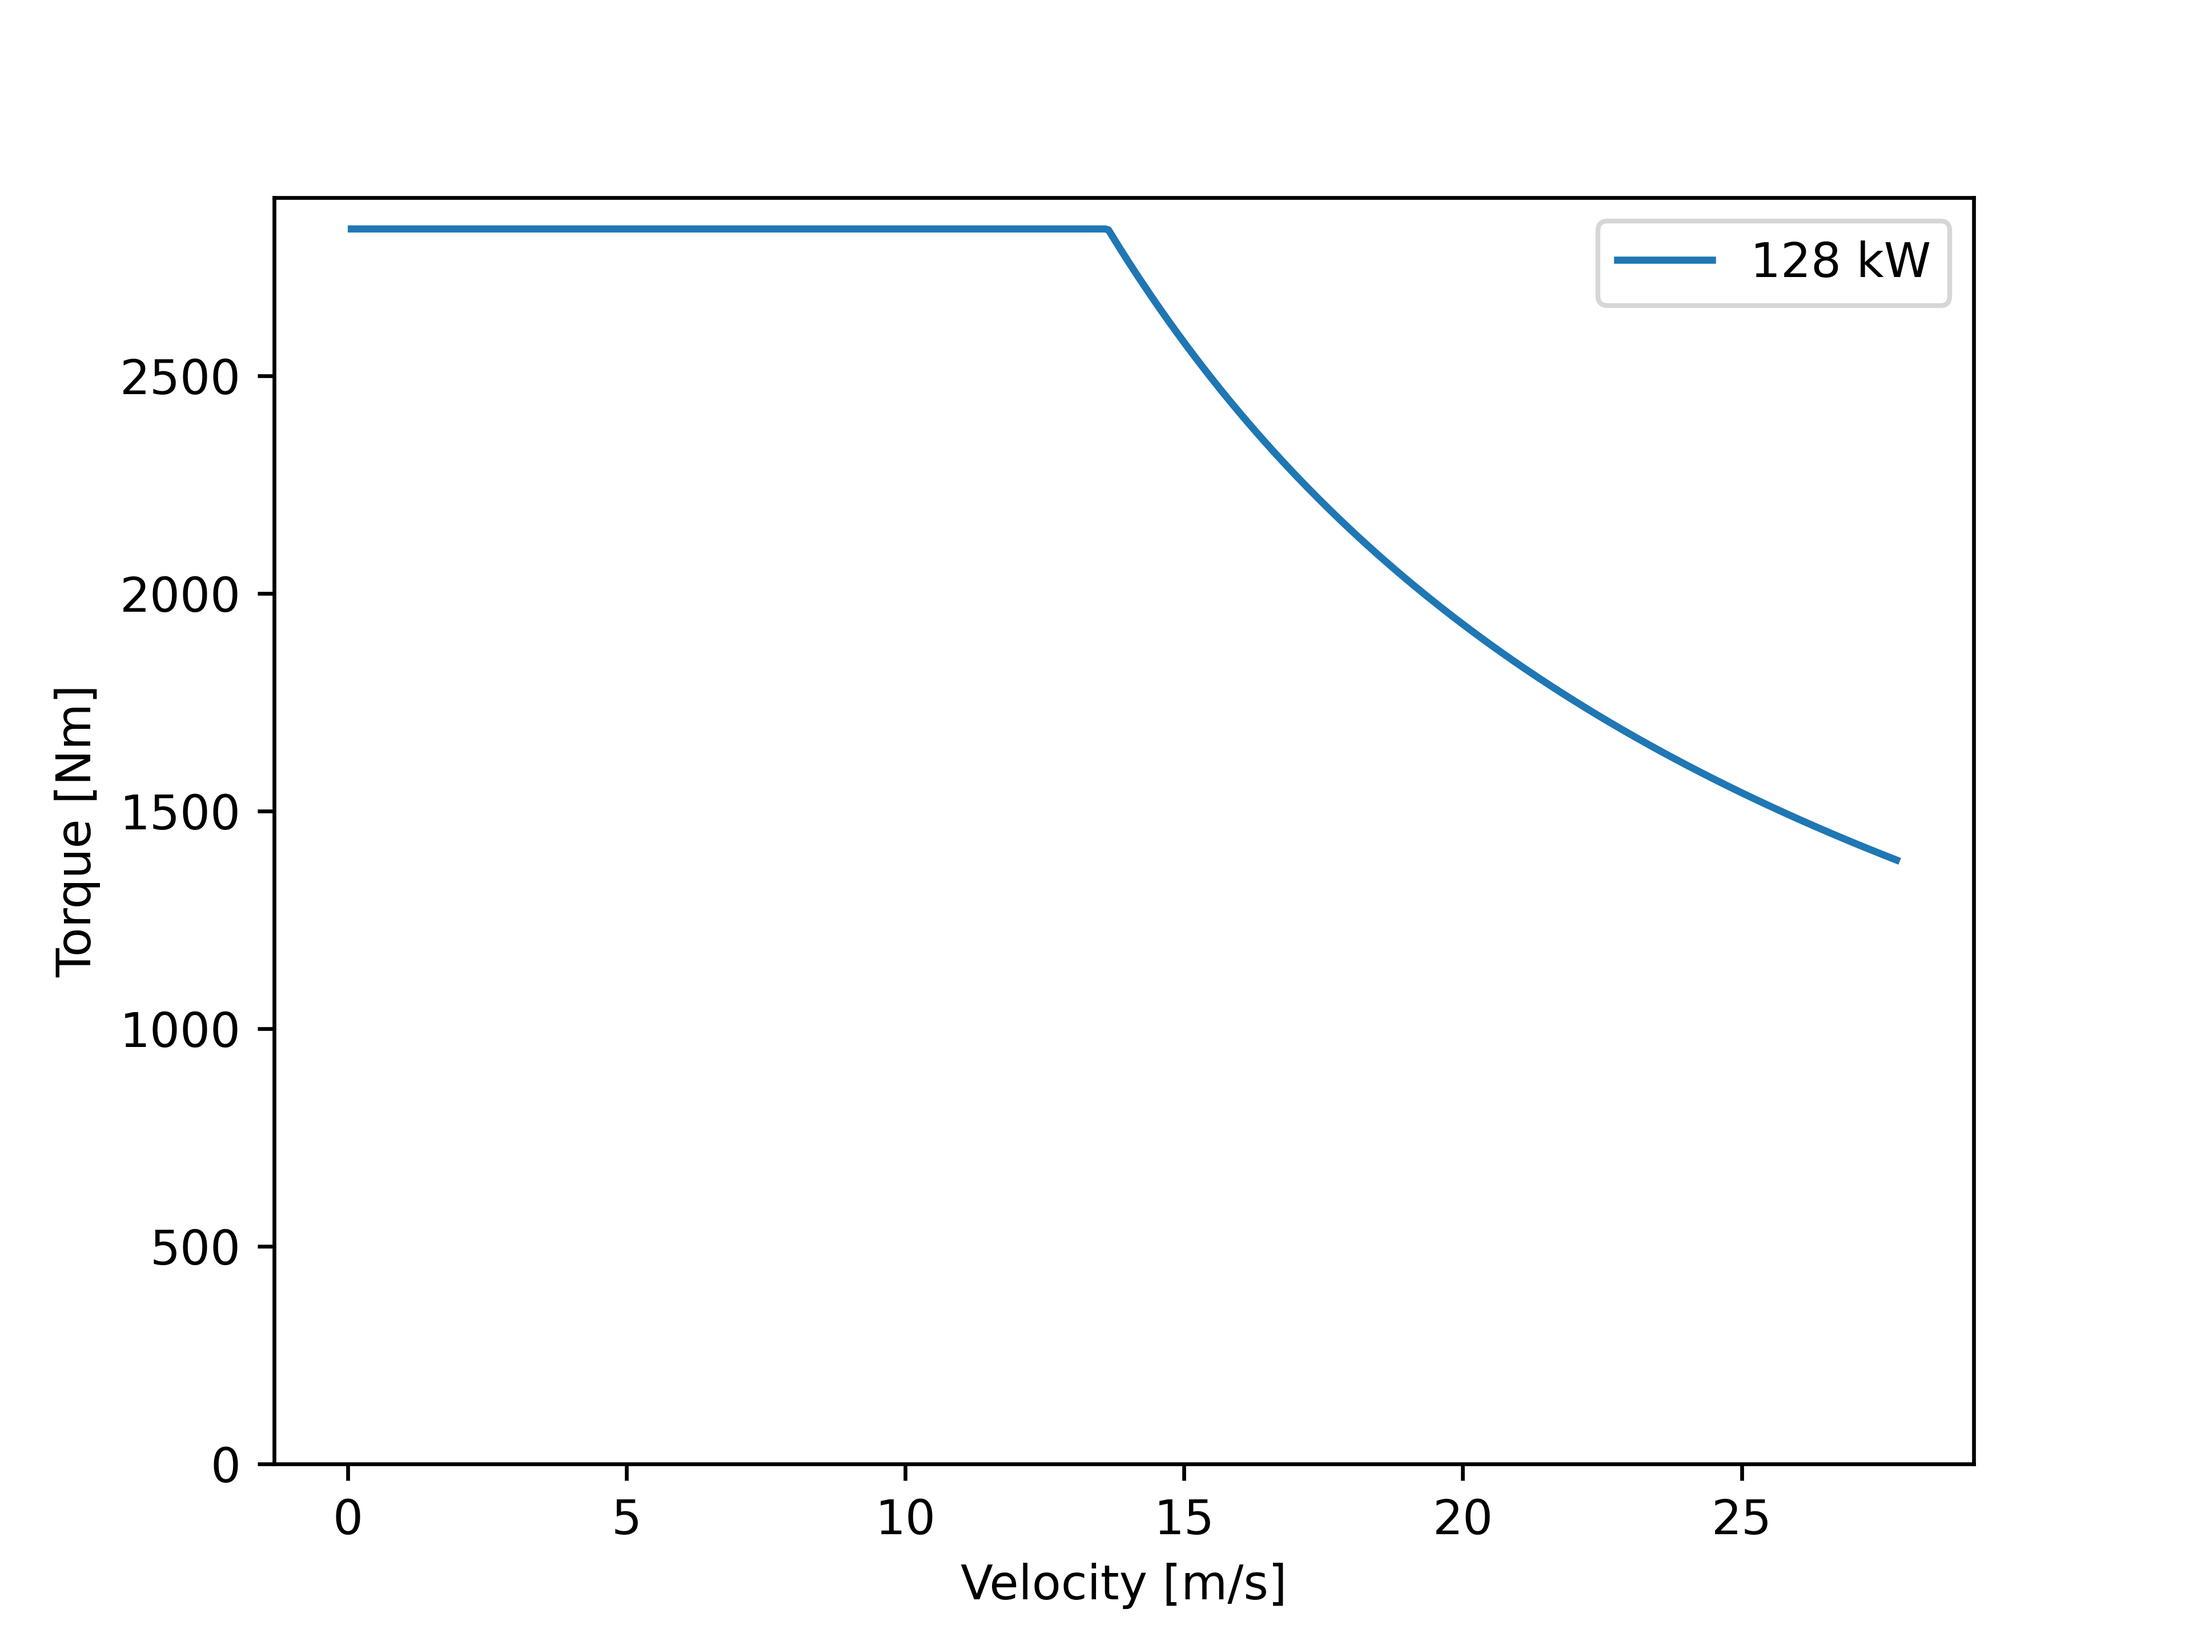
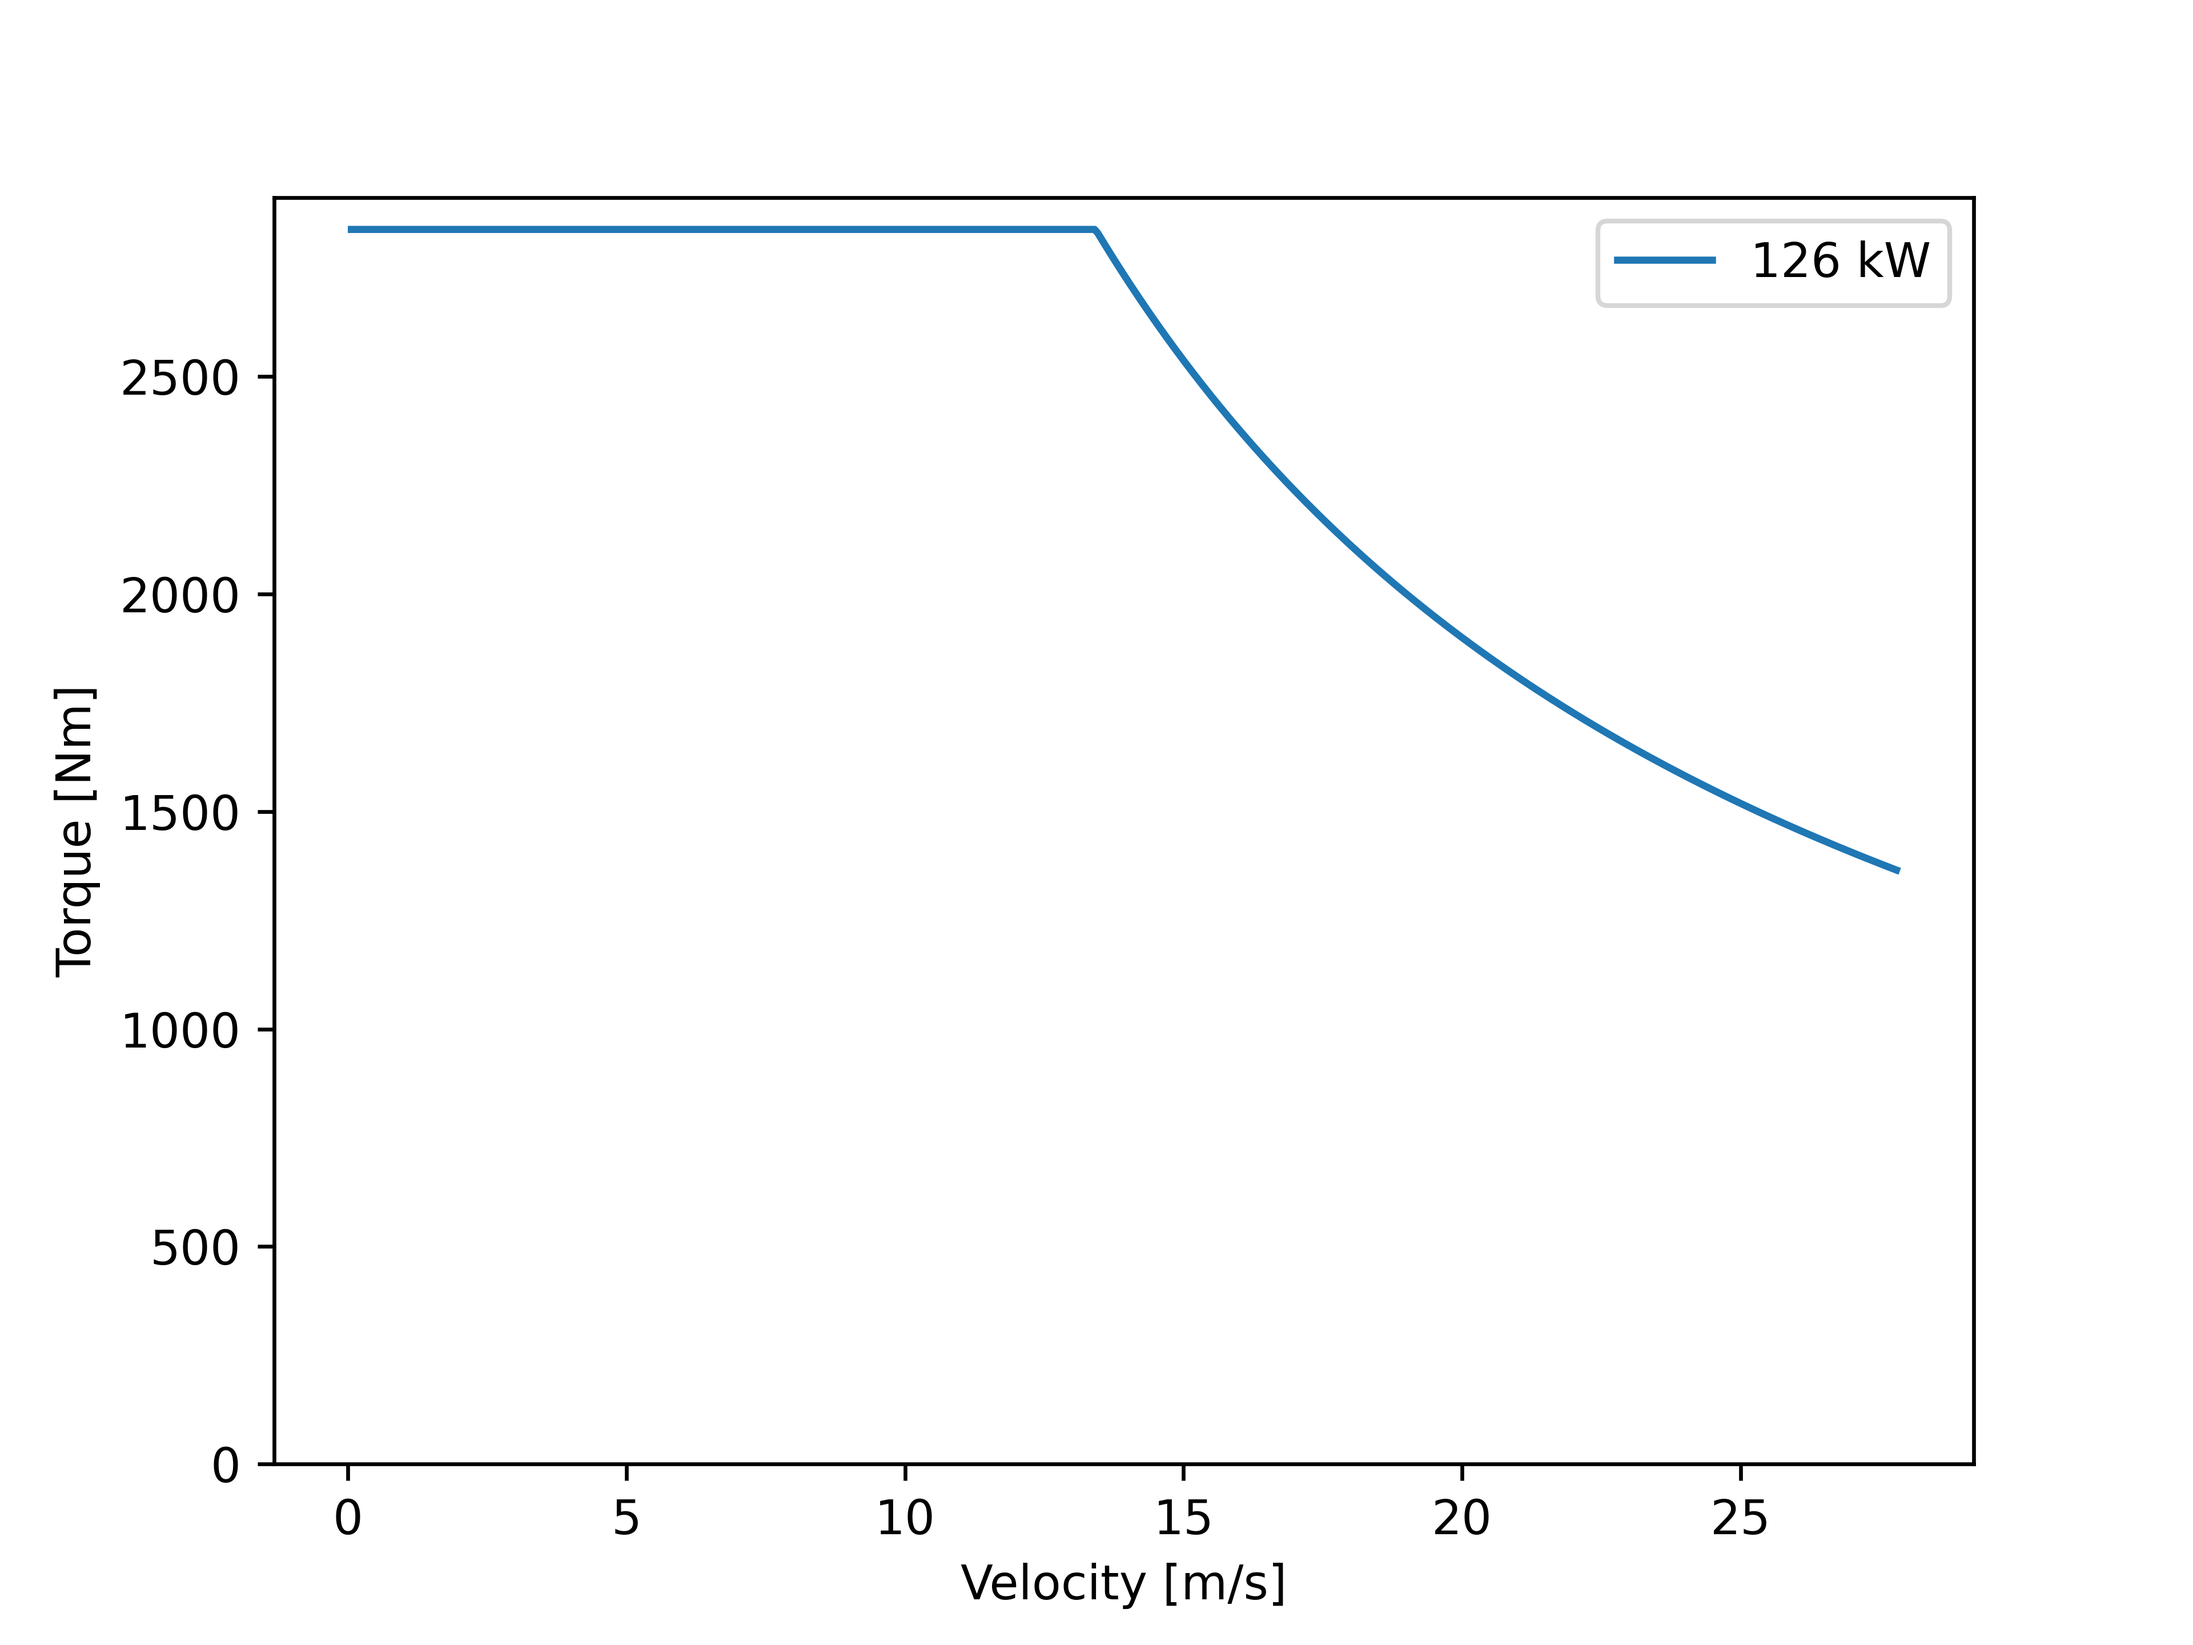
feels very close, but no cigarr!

diff --git a/templates/base.html b/templates/base.html
@@ -4,7 +4,8 @@
     <meta charset="UTF-8">
     <meta name="viewport" content="width=device-width, initial-scale=1.0">
     <meta http-equiv="X-UA-Compatible" content="ie=edge">
-    <link rel="stylesheet" href="{{ url_for('static', filename='css/main.css') }}"
+    <link rel="stylesheet" href="{{ url_for('static', filename='css/main.css') }}" />
+    <link rel="shortcut icon" href="#" />
     {%block head %}{% endblock %}
 
 </head>

diff --git a/templates/index.html b/templates/index.html
@@ -16,6 +16,5 @@
 </div>
 
 <img src="static/images/{{ 'torque.png' }}" width="75%"/> 
-<img src="/plot.png" alt="my plot">
 
 {% endblock %}

diff --git a/dragraceSim.py b/dragraceSim.py
@@ -114,6 +114,16 @@ desiredAccTime, muTire, wheelRadius):
 
     return torques, velocities, power
 
+def plot_png(xs, ys):
+    setdpi=600
+    plt.plot(xs, ys, label=f'{power/1e3:.0f} kW')
+    plt.xlabel('Velocity [m/s]')
+    plt.ylabel('Torque [Nm]')
+    plt.legend(loc='best')
+    plt.ylim(bottom=0)
+    plt.savefig('static/images/torque.png', dpi=setdpi)
+    return 'plotting done, see disk'
+
 
 if __name__ == "__main__":
     mass = 1500
@@ -132,16 +142,11 @@ if __name__ == "__main__":
 
     #an example string: 0.3, 2, 1300, 0, 0, 33, 0.5, 0.4, 2.5, 6, 0.95, 0.3
 
-    torques, velocities, power = accelerateVehicle(Cd, frontArea, mass, grade, v0, v1, cgh, wtRearFrac, wheelbase, driveWheel, \
-    desiredAccTime, muTire, wheelRadius)
+    torques, velocities, power = accelerateVehicle(Cd, frontArea, mass, grade, v0,\
+         v1, cgh, wtRearFrac, wheelbase, driveWheel, \
+         desiredAccTime, muTire, wheelRadius)
 
-    setdpi=600
-
-    plt.plot(velocities, torques, label=f'{power/1e3:.0f} kW')
-    plt.xlabel('Velocity [m/s]')
-    plt.ylabel('Torque [Nm]')
-    plt.legend(loc='best')
-    plt.ylim(bottom=0)
-    plt.savefig('images/torque.png', dpi=setdpi)
+    message = plot_png(velocities, torques)
+    print(message)
 
     print(f'Power is {power*1e-3} kW')

diff --git a/flaskpage.py b/flaskpage.py
@@ -1,8 +1,4 @@
 from flask import Flask, render_template, url_for, request
-import io
-from matplotlib.backends.backend_agg import FigureCanvasAgg as FigureCanvas
-from matplotlib.figure import Figure 
-
 import dragraceSim
 
 app = Flask(__name__)
@@ -24,28 +20,14 @@ def index():
                 torques, velocities, power = dragraceSim.accelerateVehicle(0.35, 2, 1300, 0, 0, 33, 0.5, 0.57, 2.5, 'RWD', \
                     6, 0.95, 0.3)
                 print(power/1e3)
-            plot_png(velocities, torques)
+            message = dragraceSim.plot_png(velocities, torques)
+            print(message)
             return render_template('index.html')
         except:
             return 'some issue occured'
 
     else:
         return render_template('index.html')
-
-
-@app.route('/plot.png')
-def plot_png(xs, ys):
-    fig = create_figure(xs, ys)
-    output = io.BytesIO()
-    FigureCanvas(fig).print_png(output)
-    return Response(output.getvalue(), mimetype='image/png')
-
-def create_figure(xs, ys):
-    fig = Figure()
-    axis = fig.add_subplot(1,1,1)
-    axis.plot(xs, ys)
-    return fig    
-
 
 if __name__ == "__main__":
     app.run(debug=True)
